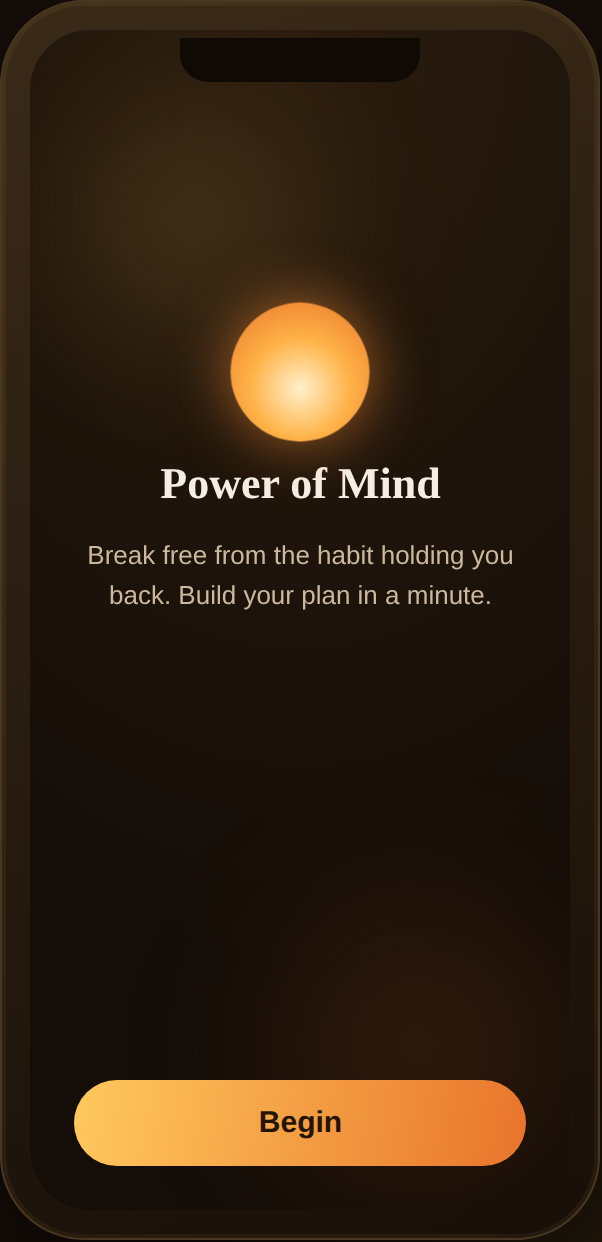
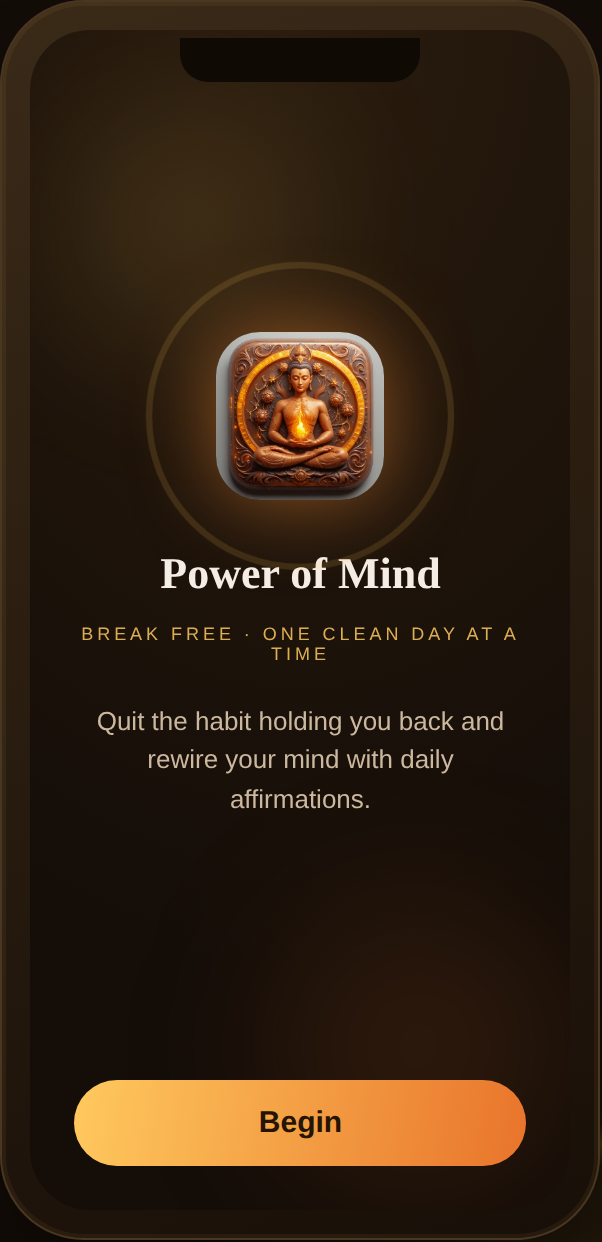
Round 6: animated welcome intro, AI coach chat, daily-reminder screen
- Welcome intro: logo reveal with pulsing rings + eyebrow tagline.
- AI coach chat: bubble UI (coach/user), suggested chips that jump to the
  breathing screen or an affirmation; reached from a dashboard header icon.
- Daily reminder: toggle + time picker chips with a live time display.
- Trimmed the profile to nav cards (stats live on Insights) so nothing sits
  under the bottom nav.
QA: 29/29 checks pass.

diff --git a/microsite/assets/app.js b/microsite/assets/app.js
@@ -139,10 +139,11 @@
 
   const screens = {
     welcome: () => `
-      <div style="margin:auto;text-align:center">
-        <div class="orb-mini" aria-hidden="true"></div>
-        <h4 style="text-align:center">Power of Mind</h4>
-        <p class="sub" style="text-align:center">Break free from the habit holding you back. Build your plan in a minute.</p>
+      <div class="intro">
+        <div class="intro-logo"><span class="pulse-ring"></span><span class="pulse-ring r2"></span><img src="assets/logo.png" alt="" /></div>
+        <h4 style="text-align:center;margin-top:18px">Power of Mind</h4>
+        <p class="eyebrow-mini">BREAK FREE · ONE CLEAN DAY AT A TIME</p>
+        <p class="sub" style="text-align:center">Quit the habit holding you back and rewire your mind with daily affirmations.</p>
       </div>
       <button class="pill" data-action="startquiz">Begin</button>`,
     quiz: quizScreen,
@@ -166,6 +167,7 @@
       <div class="dash-head">
         <img class="dash-logo" src="assets/logo.png" alt="" />
         <span class="sub" style="flex:1">Stay free today.</span>
+        <span class="ic" data-action="coach" title="Coach">◍</span>
         <span class="ic" data-action="resources" title="Get help">✚</span>
         <span class="ic" data-action="profile" title="You">◉</span>
       </div>
@@ -247,6 +249,25 @@
       <p class="sub" style="margin:18px 0 8px">Money saved, building daily</p>
       <div class="bar-chart">${bars}</div>`;
     },
+    coach: () => `
+      <div class="dash-head"><span style="flex:1;font-family:'Iowan Old Style',Georgia,serif;font-size:20px;color:var(--cream)">Your coach</span><span class="ic" data-action="dashboard">✕</span></div>
+      <div class="chat">
+        <div class="msg coach">Hey — I'm glad you're here. What's coming up for you right now?</div>
+        <div class="msg user">I'm getting a craving 😣</div>
+        <div class="msg coach">A craving is a wave — it rises, peaks, and passes, usually within a few minutes. You don't have to fight it; you just have to outlast it. Want to ride it out together?</div>
+      </div>
+      <div class="chat-chips">
+        <span class="chip-btn" data-action="breathe">Breathe with me</span>
+        <span class="chip-btn" data-action="library">Play an affirmation</span>
+      </div>
+      <div class="chat-input"><span>Type a message…</span><span class="chat-send">➤</span></div>`,
+    reminder: () => `
+      <div class="dash-head"><span style="flex:1;font-family:'Iowan Old Style',Georgia,serif;font-size:20px;color:var(--cream)">Daily reminder</span><span class="ic" data-action="profile">✕</span></div>
+      <p class="sub" style="margin-bottom:12px">A gentle nudge each day to listen and stay on track.</p>
+      <div class="mini-card"><span><i class="chip">🔔</i>Daily reminder</span><span class="toggle on" data-toggle>●</span></div>
+      <div class="reminder-time">8:00 <span>AM</span></div>
+      <div class="time-chips">${["7:00", "8:00", "9:00", "20:00", "21:00"].map((t, i) => `<span class="time-chip${i === 1 ? " on" : ""}" data-time="${t}">${t}</span>`).join("")}</div>
+      <p class="demo-note" style="margin-top:14px">Uses a local notification — no account, nothing leaves your phone.</p>`,
     resources: () => `
       <div class="dash-head"><span style="flex:1;font-family:'Iowan Old Style',Georgia,serif;font-size:20px;color:var(--cream)">Get help now</span></div>
       <p class="sub" style="margin-bottom:12px">A craving is temporary. If it's too much, reach a real person — free, confidential, any time.</p>
@@ -260,11 +281,9 @@
         <div style="color:var(--cream);font-weight:700;font-size:16px">Free from ${habitWord()}</div>
         <div class="sub" style="margin:4px 0 0">${state.premium ? "Premium · all themes unlocked" : "Free plan · ad-supported"}</div>
       </div>
-      <div class="mini-card"><span><i class="chip">🔥</i>Current streak</span><b style="color:var(--gold)">${state.days} days</b></div>
-      <div class="mini-card"><span><i class="chip">🏆</i>Best streak</span><b style="color:var(--gold)">${state.days} days</b></div>
-      <div class="mini-card"><span><i class="chip">🛡</i>Urges beaten</span><b style="color:var(--amber)">4</b></div>
       <div class="mini-card" data-action="calendar" style="cursor:pointer"><span><i class="chip">📅</i>Streak calendar</span><span style="color:var(--gold)">›</span></div>
       <div class="mini-card" data-action="insights" style="cursor:pointer"><span><i class="chip">📊</i>Insights</span><span style="color:var(--gold)">›</span></div>
+      <div class="mini-card" data-action="reminder" style="cursor:pointer"><span><i class="chip">🔔</i>Daily reminder</span><span style="color:var(--gold)">›</span></div>
       <button class="pill" data-action="share">✦  Share my progress</button>
       ${state.premium ? "" : `<div class="link-row" data-action="paywall">Go Premium · $1.99/yr →</div>`}`,
   };
@@ -401,6 +420,18 @@
       sound.classList.add("on");
       return;
     }
+
+    const tchip = e.target.closest("[data-time]");
+    if (tchip) {
+      screen.querySelectorAll(".time-chip").forEach((c) => c.classList.remove("on"));
+      tchip.classList.add("on");
+      const [hh, mm] = tchip.dataset.time.split(":"); const h = +hh;
+      const disp = screen.querySelector(".reminder-time");
+      if (disp) disp.innerHTML = `${((h + 11) % 12) + 1}:${mm} <span>${h < 12 ? "AM" : "PM"}</span>`;
+      return;
+    }
+    const tog = e.target.closest("[data-toggle]");
+    if (tog) { tog.classList.toggle("on"); tog.textContent = tog.classList.contains("on") ? "●" : "○"; return; }
 
     const act = e.target.closest("[data-action]");
     if (!act) return;

diff --git a/microsite/assets/styles.css b/microsite/assets/styles.css
@@ -260,6 +260,29 @@ section{padding:clamp(70px,10vw,130px) clamp(18px,6vw,40px);max-width:var(--maxw
 .sound-chip{font-size:11px;color:var(--muted);border:1px solid var(--line);border-radius:20px;padding:5px 11px;cursor:pointer;transition:.2s}
 .sound-chip.on{color:#1a120b;background:var(--gold);border-color:transparent;font-weight:700}
 .sound-chip:active{transform:scale(.95)}
+.intro{flex:1;display:flex;flex-direction:column;align-items:center;justify-content:center;text-align:center}
+.intro-logo{position:relative;width:96px;height:96px;display:flex;align-items:center;justify-content:center}
+.intro-logo img{width:84px;height:84px;border-radius:22px;position:relative;z-index:1;box-shadow:0 0 40px rgba(255,150,60,.5)}
+.pulse-ring{position:absolute;inset:0;border-radius:50%;border:2px solid var(--gold);opacity:0;animation:pulseRing 3s ease-out infinite}
+.pulse-ring.r2{animation-delay:1.5s}
+@keyframes pulseRing{0%{transform:scale(.6);opacity:.7}100%{transform:scale(1.85);opacity:0}}
+.eyebrow-mini{letter-spacing:.22em;font-size:9px;color:var(--gold);margin:8px 0 6px;opacity:.85}
+.chat{flex:1;display:flex;flex-direction:column;gap:8px;overflow:hidden;padding-top:4px}
+.msg{max-width:82%;padding:10px 13px;border-radius:14px;font-size:13px;line-height:1.4}
+.msg.coach{align-self:flex-start;background:rgba(255,255,255,.05);border:1px solid var(--line);color:var(--cream);border-bottom-left-radius:4px}
+.msg.user{align-self:flex-end;background:var(--gold);color:#1a120b;border-bottom-right-radius:4px}
+.chat-chips{display:flex;gap:8px;flex-wrap:wrap;margin:10px 0}
+.chip-btn{font-size:12px;color:var(--gold);border:1px solid rgba(255,201,94,.4);border-radius:20px;padding:7px 12px;cursor:pointer;transition:.2s}
+.chip-btn:active{transform:scale(.96)}
+.chat-input{display:flex;align-items:center;justify-content:space-between;border:1px solid var(--line);border-radius:22px;padding:11px 14px;color:var(--faint);font-size:13px}
+.chat-send{color:var(--gold);font-size:15px}
+.toggle{font-size:22px;color:var(--gold);cursor:pointer}
+.toggle:not(.on){color:var(--faint)}
+.reminder-time{text-align:center;font-family:"Iowan Old Style",Georgia,serif;font-size:48px;color:var(--gold);margin:18px 0 4px}
+.reminder-time span{font-size:18px;color:var(--muted)}
+.time-chips{display:flex;gap:8px;justify-content:center;flex-wrap:wrap;margin-top:10px}
+.time-chip{font-size:12px;color:var(--muted);border:1px solid var(--line);border-radius:20px;padding:6px 12px;cursor:pointer;transition:.2s}
+.time-chip.on{color:#1a120b;background:var(--gold);border-color:transparent;font-weight:700}
 
 /* ---- responsive ---- */
 @media (max-width:820px){
